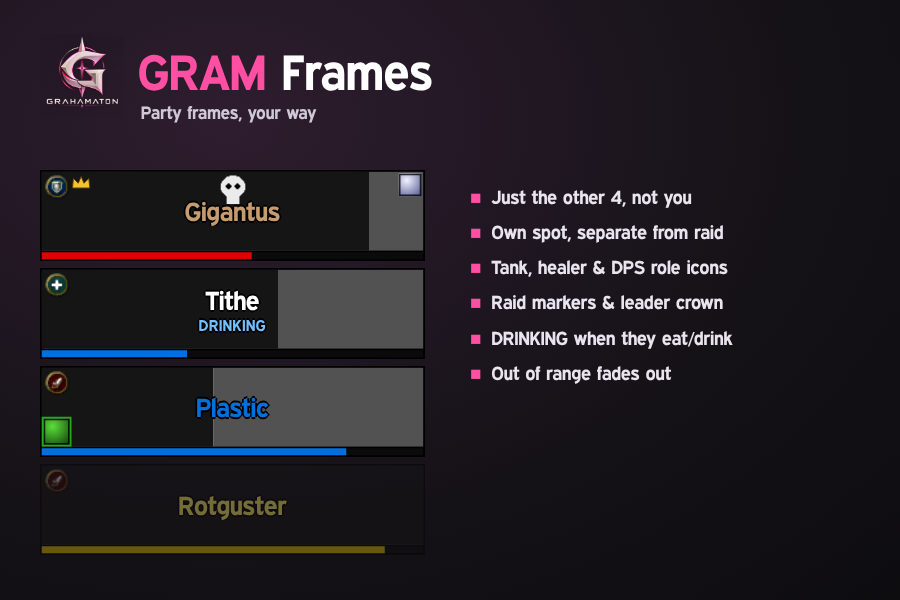
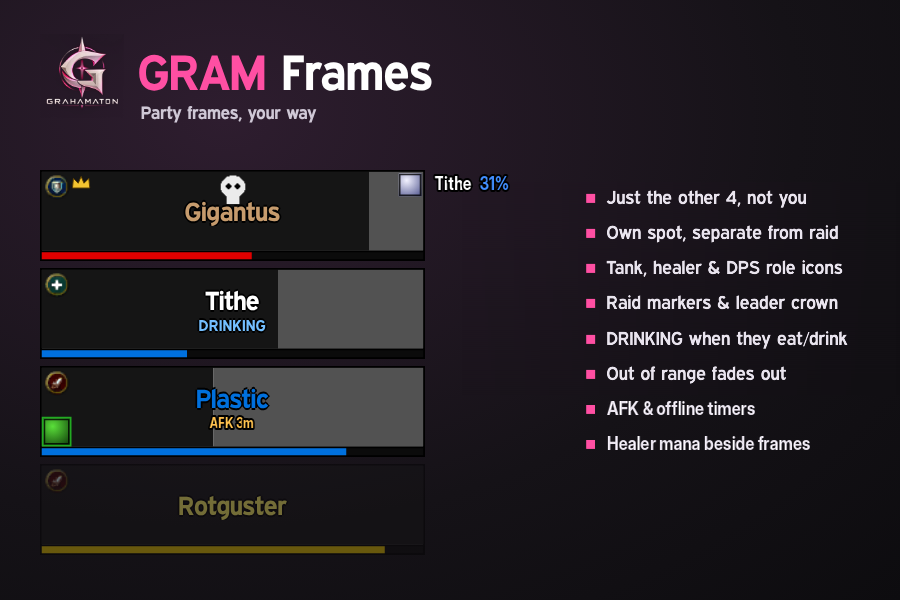
Gram Frames 2.2.5: colors, font and texture on the General page; new screenshots
- Colors, font, bar texture, border and target box are one shared set on the
  General page (party frame settings carry over)
- Screenshots show healer mana, AFK and OFFLINE timers, gold target, red aggro

Claude-Session: https://claude.ai/code/session_01QoGf5yo5Mq9qESaEJTN78D

Changed region(s): [[0.4667, 0.27, 0.9333, 0.69], [0.2178, 0.63, 0.3111, 0.72], [0.6533, 0.72, 0.9022, 0.75]]

diff --git a/README.md b/README.md
@@ -4,7 +4,7 @@
 
 Dark, clean raid and party frames for **WoW Forever**, built from scratch for tanks and healers who want full control without the clutter.
 
-**Version 2.2.4 (beta)** · Interface 16001 · type `/gf` in game
+**Version 2.2.5 (beta)** · Interface 16001 · type `/gf` in game
 
 What's new: see the [changelog](CHANGELOG.md).
 
@@ -34,7 +34,7 @@ What's new: see the [changelog](CHANGELOG.md).
 - Shows DRINKING when someone eats or drinks
 - Blizzard round role icons (tank shield, healer cross, DPS sword), leader icon, raid markers, gold target highlight (pick your own color)
 - AFK and OFFLINE show on the frame with how many minutes they've been away
-- Color pickers for names, health text, frame border and target box
+- Color pickers for names, health text, frame border and target box, all on the General page
 
 ### Click-casting with downranking
 - Bind any modifier + mouse button to a spell, macro, raid marker, target, assist, focus or menu

diff --git a/CHANGELOG.md b/CHANGELOG.md
@@ -1,7 +1,11 @@
 # Gram Frames changelog
 
+## 2.2.5
+- Colors, font and bar texture moved to the **General** page. Set them once and they're used by party and raid frames. Your party frame colors carry over.
+- My Target Color and My Target Thickness are on the General page too.
+
 ## 2.2.4
-- The box around the person you have targeted is gold now instead of white. Pick any color and thickness under Icons → My Target Color / My Target Thickness.
+- The box around the person you have targeted is gold now instead of white. Pick any color and thickness under My Target Color / My Target Thickness.
 - Aggro is always bright red: the border and the AGGRO / LOSING / YOU label.
 - **AFK** shows on the frame with a minute timer (AFK 3m). **OFFLINE** shows its minutes too (OFFLINE 12m). Turn AFK off under Icons → Show AFK.
 - More color pickers: Name Color → Pick a color, Health Text Color, and Border Color.
